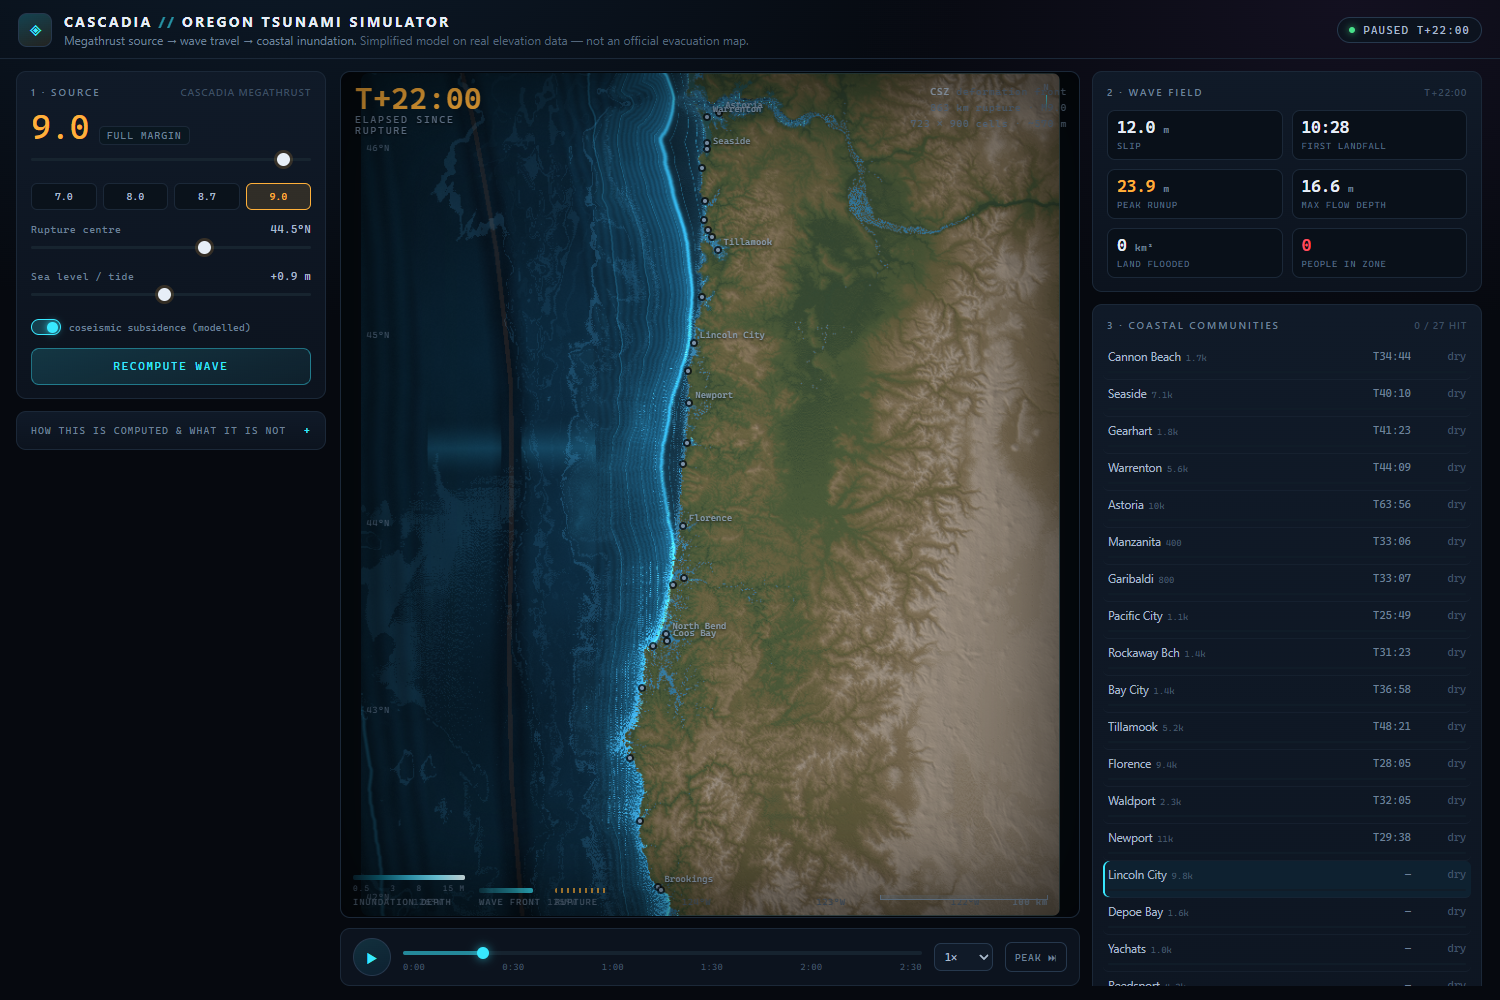
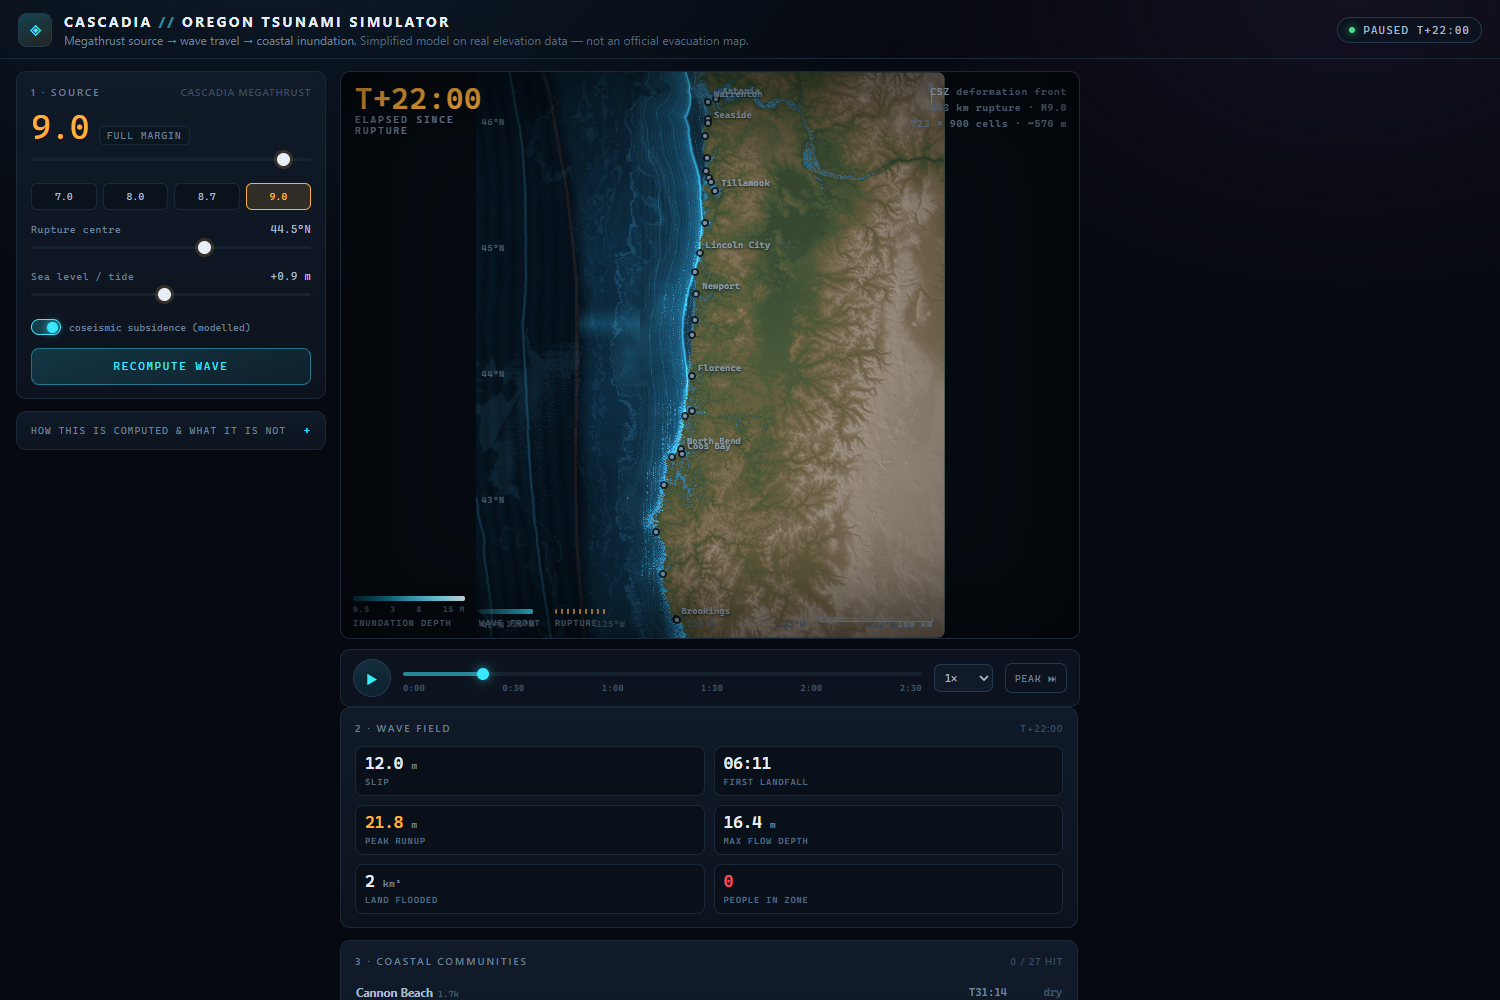
Source: extend the locked zone downdip, gate shoreline runup on wave amplitude, document arrival times

diff --git a/index.html b/index.html
@@ -304,7 +304,13 @@ input[type=range].flat::-moz-range-thumb{width:13px;height:13px;border:0;border-
                 (SRTM/NED on land, ETOPO bathymetry offshore). Populations are rounded 2020 census
                 figures; "people in zone" is population × the flooded fraction of each town's 2.5 km
                 disc — an exposure indicator, <b>not</b> a casualty forecast.</p>
-              <p><b>Resolution.</b> 520 m cells cannot resolve a 300 m beach berm. Coastal strips
+              <p><b>Arrival times. With the animation running, a 520 m grid puts the front
+            crossing the 30 km of 50–150 m deep shelf at 10–30 m/s, so the model is a few
+            minutes slower than the DOGAMI/NOAA figures: a weak leading signal reaches the
+            beach in the first 5–10 minutes (that is the coseismic withdrawal you would see),
+            the main wave arrives around 20 minutes, and water is pushing into town at 30+.
+            Real guidance of "15–20 minutes" refers to the main wave at the beach.</p>
+          <p><b>Resolution.</b> 520 m cells cannot resolve a 300 m beach berm. Coastal strips
                 narrower than a cell are averaged into the terrain around them, so inundation is
                 under-reported where the coast is steep — most of all on the south coast, where the
                 model shows far less flooding than the official maps do. Estuaries and wide flats
@@ -589,6 +595,7 @@ var Core = (function () {
     var BAND_M = 55000;                  // m: cells further than this can never seed
     var distF = new Float32Array(n);
     var alongF = new Float32Array(n);
+    var sideF = new Float32Array(n);     // +1 landward of the deformation front, -1 seaward
     for (i = 0; i < n; i++) distF[i] = 1e9;
     var k, t, ax, ay, bx, by, vx, vy, L2;
     for (k = 0; k < np - 1; k++) {
@@ -614,7 +621,11 @@ var Core = (function () {
           var qx = ax + vx * tt - px, qy = ay + vy * tt - py;
           var dd = Math.sqrt(qx * qx + qy * qy);
           var idd = jj * nx + ii;
-          if (dd < distF[idd]) { distF[idd] = dd; alongF[idd] = k + tt; }
+          if (dd < distF[idd]) {
+            distF[idd] = dd; alongF[idd] = k + tt;
+            // the margin trends north, so "landward" (east) is a negative cross product
+            sideF[idd] = (vx * wy - vy * wx) < 0 ? 1 : -1;
+          }
         }
       }
     }
@@ -635,7 +646,7 @@ var Core = (function () {
         if (elev[id] > 0) continue;
         var dkm = distF[id] / 1000;
         var bestAlong = rg.sA + (rg.sB - rg.sA) * ((alongF[id]) / (np - 1));
-        if (dkm > 6 && dkm < 50 && elev[id] < -40) {
+        if (sideF[id] > 0 && dkm > 2 && dkm < 96 && elev[id] < -20) {
           // taper to zero at the rupture ends
           var ends = Math.min(bestAlong - rg.sA, rg.sB - bestAlong);
           var taper = Math.min(1, ends / (0.09 * rg.lenKm + 6));
@@ -643,7 +654,8 @@ var Core = (function () {
           // downdip limit, where the margin subsides instead of uplifting
           // the displaced water is a broad plateau over the rupture plane; only the
           // seaward edge (the trench itself) and the downdip limit taper to nothing
-          var perp = Math.min(1, Math.max(0, (dkm - 3) / 9));
+          // full displacement across the locked zone, tapering at the trench and downdip
+          var perp = Math.min(1, Math.max(0, Math.min((dkm - 2) / 10, (96 - dkm) / 16)));
           var a0 = A0 * perp * taper;
           if (a0 > 0.05) {
             var tstart = Math.abs(bestAlong - rg.midS) / VRUPT;
@@ -696,7 +708,7 @@ var Core = (function () {
       for (i = 0; i < nx; i++) {
         var id2 = j * nx + i;
         if (elev[id2] > 0) continue;
-        if (arrive[id2] > 1e8) continue;
+        if (arrive[id2] > 1e8 || amp[id2] < 0.5) continue;
         // find adjacent land, then runup there
         for (var q = 0; q < 8; q++) {
           var li = i + NEI[q][0], lj = j + NEI[q][1];

diff --git a/src/index.html b/src/index.html
@@ -304,7 +304,13 @@ input[type=range].flat::-moz-range-thumb{width:13px;height:13px;border:0;border-
                 (SRTM/NED on land, ETOPO bathymetry offshore). Populations are rounded 2020 census
                 figures; "people in zone" is population × the flooded fraction of each town's 2.5 km
                 disc — an exposure indicator, <b>not</b> a casualty forecast.</p>
-              <p><b>Resolution.</b> 520 m cells cannot resolve a 300 m beach berm. Coastal strips
+              <p><b>Arrival times. With the animation running, a 520 m grid puts the front
+            crossing the 30 km of 50–150 m deep shelf at 10–30 m/s, so the model is a few
+            minutes slower than the DOGAMI/NOAA figures: a weak leading signal reaches the
+            beach in the first 5–10 minutes (that is the coseismic withdrawal you would see),
+            the main wave arrives around 20 minutes, and water is pushing into town at 30+.
+            Real guidance of "15–20 minutes" refers to the main wave at the beach.</p>
+          <p><b>Resolution.</b> 520 m cells cannot resolve a 300 m beach berm. Coastal strips
                 narrower than a cell are averaged into the terrain around them, so inundation is
                 under-reported where the coast is steep — most of all on the south coast, where the
                 model shows far less flooding than the official maps do. Estuaries and wide flats
@@ -589,6 +595,7 @@ var Core = (function () {
     var BAND_M = 55000;                  // m: cells further than this can never seed
     var distF = new Float32Array(n);
     var alongF = new Float32Array(n);
+    var sideF = new Float32Array(n);     // +1 landward of the deformation front, -1 seaward
     for (i = 0; i < n; i++) distF[i] = 1e9;
     var k, t, ax, ay, bx, by, vx, vy, L2;
     for (k = 0; k < np - 1; k++) {
@@ -614,7 +621,11 @@ var Core = (function () {
           var qx = ax + vx * tt - px, qy = ay + vy * tt - py;
           var dd = Math.sqrt(qx * qx + qy * qy);
           var idd = jj * nx + ii;
-          if (dd < distF[idd]) { distF[idd] = dd; alongF[idd] = k + tt; }
+          if (dd < distF[idd]) {
+            distF[idd] = dd; alongF[idd] = k + tt;
+            // the margin trends north, so "landward" (east) is a negative cross product
+            sideF[idd] = (vx * wy - vy * wx) < 0 ? 1 : -1;
+          }
         }
       }
     }
@@ -635,7 +646,7 @@ var Core = (function () {
         if (elev[id] > 0) continue;
         var dkm = distF[id] / 1000;
         var bestAlong = rg.sA + (rg.sB - rg.sA) * ((alongF[id]) / (np - 1));
-        if (dkm > 6 && dkm < 50 && elev[id] < -40) {
+        if (sideF[id] > 0 && dkm > 2 && dkm < 96 && elev[id] < -20) {
           // taper to zero at the rupture ends
           var ends = Math.min(bestAlong - rg.sA, rg.sB - bestAlong);
           var taper = Math.min(1, ends / (0.09 * rg.lenKm + 6));
@@ -643,7 +654,8 @@ var Core = (function () {
           // downdip limit, where the margin subsides instead of uplifting
           // the displaced water is a broad plateau over the rupture plane; only the
           // seaward edge (the trench itself) and the downdip limit taper to nothing
-          var perp = Math.min(1, Math.max(0, (dkm - 3) / 9));
+          // full displacement across the locked zone, tapering at the trench and downdip
+          var perp = Math.min(1, Math.max(0, Math.min((dkm - 2) / 10, (96 - dkm) / 16)));
           var a0 = A0 * perp * taper;
           if (a0 > 0.05) {
             var tstart = Math.abs(bestAlong - rg.midS) / VRUPT;
@@ -696,7 +708,7 @@ var Core = (function () {
       for (i = 0; i < nx; i++) {
         var id2 = j * nx + i;
         if (elev[id2] > 0) continue;
-        if (arrive[id2] > 1e8) continue;
+        if (arrive[id2] > 1e8 || amp[id2] < 0.5) continue;
         // find adjacent land, then runup there
         for (var q = 0; q < 8; q++) {
           var li = i + NEI[q][0], lj = j + NEI[q][1];

diff --git a/scripts/diag_arrival.js b/scripts/diag_arrival.js
@@ -1,0 +1,63 @@
+// arrival-time audit: where does the wave start, and how fast does it reach the coast?
+"use strict";
+const fs = require("fs"), zlib = require("zlib"), path = require("path");
+const html = fs.readFileSync(path.join(__dirname, "..", "index.html"), "utf8");
+const S = "/* CORE-START */", E = "/* CORE-END */";
+const Core = new Function(html.slice(html.indexOf(S) + S.length, html.indexOf(E)) + "\nreturn Core;")();
+const dem = JSON.parse(fs.readFileSync(path.join(__dirname, "..", "data", "dem.json"), "utf8"));
+const q = zlib.inflateSync(Buffer.from(dem.elev, "base64"));
+const elev = new Float32Array(q.length);
+for (let i = 0; i < q.length; i++) elev[i] = dem.tbl[q[i]];
+const m = Core.makeModel(dem, elev);
+const r = Core.scenario(m, { mag: 9.0, centerLat: 44.5, tide: 0.9, subsidence: true });
+const nx = dem.nx, ny = dem.ny;
+const iOf = (lo) => Math.floor((lo - dem.lon0) / dem.dlon);
+const jOf = (la) => Math.floor((dem.lat0 + dem.dlat * ny - la) / dem.dlat);
+const KMLON = 111.32 * Math.cos(44 * Math.PI / 180);
+
+function transect(label, lat, coastLon) {
+  console.log("\n=== " + label + " (lat " + lat + ", coast ~ " + coastLon + ")");
+  const j = jOf(lat);
+  let prev = null;
+  for (let i = iOf(coastLon - 1.6); i <= iOf(coastLon + 0.03); i += 2) {
+    const id = j * nx + i;
+    const lon = dem.lon0 + i * dem.dlon;
+    const a = r.arrive[id];
+    const dist = Math.abs(lon - coastLon) * KMLON;
+    if (a < 1e8) {
+      let v = "";
+      if (prev && prev.a < 1e8) {
+        const dd = (prev.dist - dist) * 1000, dt = a - prev.a;
+        if (dd > 0 && dt > 0) v = (dd / dt).toFixed(0) + " m/s";
+      }
+      console.log("  lon " + lon.toFixed(3) + "  depth " + elev[id].toFixed(0).padStart(6) +
+        "  " + dist.toFixed(0).padStart(4) + " km out  arrive " + (a / 60).toFixed(1).padStart(6) +
+        " min " + (r.srcT[id] >= 0 ? "SEED" : "    ") + " " + v);
+      prev = { a, dist };
+    }
+  }
+}
+transect("FLORENCE", 44.00, -124.10);
+transect("SEASIDE", 46.00, -123.93);
+
+// nearest seed cell to each town
+console.log("\n=== nearest source cell per town");
+for (const t of Core.TOWNS) {
+  const ci = iOf(t.lo), cj = jOf(t.la);
+  let best = 1e9, bi = 0, bj = 0;
+  for (let dj = -120; dj <= 120; dj++) for (let di = -160; di <= 40; di++) {
+    const ii = ci + di, jj = cj + dj;
+    if (ii < 0 || jj < 0 || ii >= nx || jj >= ny) continue;
+    const id = jj * nx + ii;
+    if (r.srcT[id] >= 0 || (r.arrive[id] < 1e8 && r.amp[id] > 9)) {
+      const dx = di * dem.dlon * KMLON, dy = dj * dem.dlat * 111.32;
+      const d = Math.sqrt(dx * dx + dy * dy);
+      if (d < best) { best = d; bi = ii; bj = jj; }
+    }
+  }
+  if (best < 1e8) {
+    const id = bj * nx + bi;
+    console.log("  " + t.n.padEnd(15) + " nearest source " + best.toFixed(0).padStart(4) + " km away" +
+      "  (depth " + elev[id].toFixed(0) + " m, arrive there " + (r.arrive[id] / 60).toFixed(1) + " min)");
+  }
+}
